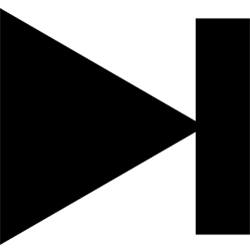
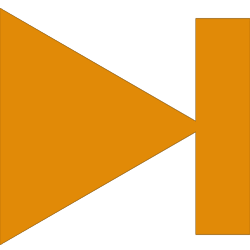
Changed to black and orange theme, styled slider to match theme and also leave path behind

diff --git a/Octoplayer/Octoplayer Frontend/MainWindow.xaml b/Octoplayer/Octoplayer Frontend/MainWindow.xaml
@@ -5,17 +5,17 @@
         xmlns:mc="http://schemas.openxmlformats.org/markup-compatibility/2006"
         xmlns:local="clr-namespace:Octoplayer_Frontend" 
         mc:Ignorable="d"
-        Title="MainWindow" Height="1080" Width="1920" FontSize="14">
+        Title="MainWindow" Height="1080" Width="1920" FontSize="14" Background="Black" >
     <Window.Resources>
         <Image x:Key="Play" Source="assets/play-icon.png" Width="50"/>
         <Image x:Key="Pause" Source="assets/pause-icon.png" Width="50"/>
-        <Label x:Key="TrackInfo"/>
-        <Label x:Key="DiscInfo"/>
-        <Label x:Key="Year"/>
-        <Label x:Key="Rating"/>
-        <Label x:Key="Genres"/>
-        <Label x:Key="BPM"/>
-        <Label x:Key="Key"/>
+        <Label x:Key="TrackInfo" Foreground="#E18A07"/>
+        <Label x:Key="DiscInfo" Foreground="#E18A07"/>
+        <Label x:Key="Year" Foreground="#E18A07"/>
+        <Label x:Key="Rating" Foreground="#E18A07"/>
+        <Label x:Key="Genres" Foreground="#E18A07"/>
+        <Label x:Key="BPM" Foreground="#E18A07"/>
+        <Label x:Key="Key" Foreground="#E18A07"/>
         <Style x:Key="ExpanderHeaderFocusVisual">
             <Setter Property="Control.Template">
                 <Setter.Value>
@@ -38,7 +38,7 @@
                                     <RowDefinition Height="20"/>
                                 </Grid.RowDefinitions>
                                 <ContentPresenter HorizontalAlignment="Center" RecognizesAccessKey="True" SnapsToDevicePixels="True" VerticalAlignment="Center"/>
-                                <Path x:Name="arrow" Grid.Row="1" Data="M 4,6 L 10,14 L 16,6" HorizontalAlignment="Center" StrokeThickness="2" Stroke="#FF333333" VerticalAlignment="Center"/>
+                                <Path x:Name="arrow" Grid.Row="1" Data="M 4,6 L 10,14 L 16,6" HorizontalAlignment="Center" StrokeThickness="2" Stroke="#553300" VerticalAlignment="Center"/>
                             </Grid>
                         </Border>
                         <ControlTemplate.Triggers>
@@ -75,8 +75,77 @@
                 </Setter.Value>
             </Setter>
         </Style>
+
+        <Style x:Key="SliderRepeatButton" TargetType="RepeatButton">
+            <Setter Property="SnapsToDevicePixels" Value="true" />
+            <Setter Property="OverridesDefaultStyle" Value="true" />
+            <Setter Property="IsTabStop" Value="false" />
+            <Setter Property="Focusable" Value="false" />
+            <Setter Property="Template">
+                <Setter.Value>
+                    <ControlTemplate TargetType="RepeatButton">
+                        <Border BorderThickness="1" BorderBrush="#2F2F2F" Background="#553300" Height="5"/>
+                    </ControlTemplate>
+                </Setter.Value>
+            </Setter>
+        </Style>
+        <Style x:Key="SliderRepeatButton1" TargetType="RepeatButton">
+            <Setter Property="SnapsToDevicePixels" Value="true" />
+            <Setter Property="OverridesDefaultStyle" Value="true" />
+            <Setter Property="Template">
+                <Setter.Value>
+                    <ControlTemplate TargetType="RepeatButton">
+                        <Border SnapsToDevicePixels="True" BorderThickness="1" BorderBrush="#2F2F2F" Background="#E18A07" Height="5"/>
+                    </ControlTemplate>
+                </Setter.Value>
+            </Setter>
+        </Style>
+
+        <Style x:Key="SliderThumb" TargetType="Thumb">
+            <Setter Property="SnapsToDevicePixels" Value="true" />
+            <Setter Property="OverridesDefaultStyle" Value="true" />
+            <Setter Property="Template">
+                <Setter.Value>
+                    <ControlTemplate TargetType="Thumb">
+                        <Ellipse Height="20" Width="20" Fill="#E18A07" Stroke="#2F2F2F" StrokeThickness="1"></Ellipse>
+                    </ControlTemplate>
+                </Setter.Value>
+            </Setter>
+        </Style>
+        <ControlTemplate x:Key="Slider"  TargetType="Slider">
+            <Grid>
+                <Grid.RowDefinitions>
+                    <RowDefinition Height="Auto" />
+                    <RowDefinition Height="Auto" MinHeight="{TemplateBinding MinHeight}" />
+                    <RowDefinition Height="Auto" />
+                </Grid.RowDefinitions>
+                <Track Grid.Row="1" x:Name="PART_Track"   >
+                    <Track.DecreaseRepeatButton>
+                        <RepeatButton Style="{StaticResource SliderRepeatButton1}"  Command="Slider.DecreaseLarge" />
+                    </Track.DecreaseRepeatButton>
+                    <Track.Thumb>
+                        <Thumb Style="{StaticResource SliderThumb}"  />
+                    </Track.Thumb>
+                    <Track.IncreaseRepeatButton>
+                        <RepeatButton Style="{StaticResource SliderRepeatButton}" Command="Slider.IncreaseLarge" />
+                    </Track.IncreaseRepeatButton>
+                </Track>
+            </Grid>
+        </ControlTemplate>
+        <Style x:Key="TrackSlider" TargetType="Slider">
+            <Setter Property="Focusable" Value="False"/>
+            <Setter Property="SnapsToDevicePixels" Value="true" />
+            <Setter Property="OverridesDefaultStyle" Value="true" />
+            <Style.Triggers>
+                <Trigger Property="Orientation" Value="Horizontal">
+                    <Setter Property="MinHeight" Value="21" />
+                    <Setter Property="MinWidth" Value="104" />
+                    <Setter Property="Template" Value="{StaticResource Slider}" />
+                </Trigger>
+            </Style.Triggers>
+        </Style>
     </Window.Resources>
-    <Grid Margin="10">
+    <Grid Margin="10" >
         <Grid.RowDefinitions>
             <RowDefinition Height="auto"/>
             <RowDefinition/>
@@ -87,7 +156,7 @@
                 <ColumnDefinition Width="auto"/>
                 <ColumnDefinition/>
             </Grid.ColumnDefinitions>
-            <Button x:Name="BtnSelectFolder" Content="Select Library Folder" Padding="5, 0, 5, 0" HorizontalAlignment="Center" VerticalAlignment="Center" Click="BtnSelectFolder_Click"/>
+            <Button x:Name="BtnSelectFolder" Content="Select Library Folder" Padding="5, 0, 5, 0" HorizontalAlignment="Center" VerticalAlignment="Center" Click="BtnSelectFolder_Click" Background="Black" Foreground="#E18A07" BorderBrush="#E18A07"/>
             <Label x:Name="LblFilesLoaded" Grid.Column="1" VerticalAlignment="Center"/>
         </Grid>
         <Grid Grid.Row="1" Margin="0, 10, 0, 10">
@@ -101,7 +170,7 @@
                     <RowDefinition/>
                 </Grid.RowDefinitions>
                 <Image x:Name="ImgAlbumArt" VerticalAlignment="Top"/>
-                <Expander Style="{DynamicResource TrackDataExpander}" x:Name="ExpTrackInfo" Grid.Row="1" VerticalAlignment="Top" HorizontalAlignment="Center" ExpandDirection="Down">
+                <Expander Style="{DynamicResource TrackDataExpander}" x:Name="ExpTrackInfo" Grid.Row="1" VerticalAlignment="Top" HorizontalAlignment="Center" ExpandDirection="Down" Margin="0, 10, 0, 0">
                     <Expander.Header>
                         <Grid>
                             <Grid.RowDefinitions>
@@ -109,9 +178,9 @@
                                 <RowDefinition Height="0.2*"/>
                                 <RowDefinition Height="0.3*"/>
                             </Grid.RowDefinitions>
-                            <Label x:Name="LblTrackTitle" HorizontalContentAlignment="Center" VerticalContentAlignment="Center" Padding="0" FontSize="20" />
-                            <Label x:Name="LblArtists" Grid.Row="1" HorizontalContentAlignment="Center" VerticalContentAlignment="Center" Padding="0" />
-                            <Label x:Name="LblAlbum" Grid.Row="2" HorizontalContentAlignment="Center" VerticalContentAlignment="Top" Padding="0" />
+                            <Label x:Name="LblTrackTitle" HorizontalContentAlignment="Center" VerticalContentAlignment="Center" Padding="0" FontSize="20" Foreground="#E18A07"/>
+                            <Label x:Name="LblArtists" Grid.Row="1" HorizontalContentAlignment="Center" VerticalContentAlignment="Center" Padding="0" Foreground="#E18A07"/>
+                            <Label x:Name="LblAlbum" Grid.Row="2" HorizontalContentAlignment="Center" VerticalContentAlignment="Top" Padding="0" Foreground="#E18A07"/>
                         </Grid>
                     </Expander.Header>
                     <Grid>
@@ -129,9 +198,9 @@
                                 <ColumnDefinition Width="auto"/>
                                 <ColumnDefinition Width="auto"/>
                             </Grid.ColumnDefinitions>
-                            <Label Content="Track:" HorizontalAlignment="Right" VerticalAlignment="Center" FontWeight="Bold"/>
+                            <Label Content="Track:" HorizontalAlignment="Right" VerticalAlignment="Center" FontWeight="Bold" Foreground="#E18A07"/>
                             <Label Content="{DynamicResource TrackInfo}" Grid.Column="1"/>
-                            <Label Content="Disc:" Grid.Column="3" HorizontalAlignment="Right" VerticalAlignment="Center" FontWeight="Bold"/>
+                            <Label Content="Disc:" Grid.Column="3" HorizontalAlignment="Right" VerticalAlignment="Center" FontWeight="Bold" Foreground="#E18A07"/>
                             <Label Content="{DynamicResource DiscInfo}" Grid.Column="4"/>
                         </Grid>
                         <Grid Grid.Row="1">
@@ -142,9 +211,9 @@
                                 <ColumnDefinition Width="auto"/>
                                 <ColumnDefinition Width="auto"/>
                             </Grid.ColumnDefinitions>
-                            <Label Content="Year:" HorizontalAlignment="Right" VerticalAlignment="Center" FontWeight="Bold"/>
+                            <Label Content="Year:" HorizontalAlignment="Right" VerticalAlignment="Center" FontWeight="Bold" Foreground="#E18A07"/>
                             <Label Content="{DynamicResource Year}" Grid.Column="1"/>
-                            <Label Content="Rating:" Grid.Column="3" HorizontalAlignment="Right" VerticalAlignment="Center" FontWeight="Bold" />
+                            <Label Content="Rating:" Grid.Column="3" HorizontalAlignment="Right" VerticalAlignment="Center" FontWeight="Bold" Foreground="#E18A07"/>
                             <Label Content="{DynamicResource Rating}" Grid.Column="4"/>
                         </Grid>
                         <Grid Grid.Row="2">
@@ -152,7 +221,7 @@
                                 <ColumnDefinition Width="auto"/>
                                 <ColumnDefinition/>
                             </Grid.ColumnDefinitions>
-                            <Label Content="Genre(s):" HorizontalAlignment="Right" VerticalAlignment="Center" FontWeight="Bold"/>
+                            <Label Content="Genre(s):" HorizontalAlignment="Right" VerticalAlignment="Center" FontWeight="Bold" Foreground="#E18A07"/>
                             <Label Content="{DynamicResource Genres}" Grid.Column="1"/>
                         </Grid>
                         <Grid Grid.Row="3">
@@ -163,16 +232,16 @@
                                 <ColumnDefinition Width="auto"/>
                                 <ColumnDefinition Width="auto"/>
                             </Grid.ColumnDefinitions>
-                            <Label Content="Bpm:" HorizontalAlignment="Right" VerticalAlignment="Center" FontWeight="Bold"/>
+                            <Label Content="Bpm:" HorizontalAlignment="Right" VerticalAlignment="Center" FontWeight="Bold" Foreground="#E18A07"/>
                             <Label Content="{DynamicResource BPM}" Grid.Column="1"/>
-                            <Label Content="Key:" Grid.Column="3" HorizontalAlignment="Right" VerticalAlignment="Center" FontWeight="Bold"/>
+                            <Label Content="Key:" Grid.Column="3" HorizontalAlignment="Right" VerticalAlignment="Center" FontWeight="Bold" Foreground="#E18A07"/>
                             <Label Content="{DynamicResource Key}" Grid.Column="4"/>
                         </Grid>
                     </Grid>
                 </Expander>
             </Grid>
-            <Grid Grid.Column="1">
-                <ListBox x:Name="ListBoxTracks" MouseDoubleClick="ListBoxTracks_Select">
+            <Grid Grid.Column="1" Margin="10, 0, 0, 0">
+                <ListBox x:Name="ListBoxTracks" MouseDoubleClick="ListBoxTracks_Select" Background="Black" BorderThickness="0">
                     <ListBox.ItemTemplate>
                         <DataTemplate>
                             <Grid>
@@ -187,9 +256,9 @@
                                         <RowDefinition Height="auto"/>
                                         <RowDefinition/>
                                     </Grid.RowDefinitions>
-                                    <Label Content="{Binding Title}" FontSize="20" Padding="0"/>
-                                    <Label Content="{Binding ArtistString}"  Grid.Row="1" Padding="0"/>
-                                    <Label Content="{Binding Album}" Grid.Row="2" Padding="0"/>
+                                    <Label Content="{Binding Title}" FontSize="20" Padding="0" Foreground="#E18A07"/>
+                                    <Label Content="{Binding ArtistString}"  Grid.Row="1" Padding="0" Foreground="#E18A07"/>
+                                    <Label Content="{Binding Album}" Grid.Row="2" Padding="0" Foreground="#E18A07"/>
                                 </Grid>
                             </Grid>
                         </DataTemplate>
@@ -225,8 +294,8 @@
                     <RowDefinition/>
                     <RowDefinition/>
                 </Grid.RowDefinitions>
-                <Slider x:Name="Slider" VerticalAlignment="Bottom" Thumb.DragStarted="Slider_DragStarted" Thumb.DragCompleted="Slider_DragCompleted" ValueChanged="Slider_ValueChanged" />
-                <Label x:Name="LabelTrackTime" Grid.Row="1" HorizontalAlignment="Center" VerticalAlignment="Top"/>
+                <Slider Style="{StaticResource TrackSlider}" x:Name="Slider" VerticalAlignment="Bottom" Thumb.DragStarted="Slider_DragStarted" Thumb.DragCompleted="Slider_DragCompleted" ValueChanged="Slider_ValueChanged"  />
+                <Label x:Name="LabelTrackTime" Grid.Row="1" HorizontalAlignment="Center" VerticalAlignment="Top" Foreground="#E18A07"/>
             </Grid>
         </Grid>
     </Grid>

diff --git a/Octoplayer/Octoplayer Frontend/MainWindow.xaml.cs b/Octoplayer/Octoplayer Frontend/MainWindow.xaml.cs
@@ -35,11 +35,10 @@ namespace Octoplayer_Frontend
                 {
                     if (extensions.Contains(Path.GetExtension(file))) library.AddTrack(file);
                 }
-                currentTrack = library.Tracks[0];
                 LblFilesLoaded.Content = $"{library.Tracks.Count} file{(library.Tracks.Count > 1 ? "s" : "")} loaded.";
+                library.sortByTrackTitle();
                 ListBoxTracks.ItemsSource = library.Tracks;
-                LoadTrack();
-
+    
                 GridPlayer.Visibility = Visibility.Visible; 
             }
         }
@@ -70,7 +69,7 @@ namespace Octoplayer_Frontend
 
         private void ListBoxTracks_Select(object sender, RoutedEventArgs e)
         {
-            timer.Stop();
+            if(timer != null) timer.Stop();
             currentTrack = (Track) ListBoxTracks.SelectedItem;
             LoadTrack();
             Play();

diff --git a/Octoplayer/Octoplayer Backend/Library.cs b/Octoplayer/Octoplayer Backend/Library.cs
@@ -1,5 +1,6 @@
 using System;
 using System.Collections.Generic;
+using System.Linq;
 using System.Text;
 
 namespace Octoplayer_Backend
@@ -30,6 +31,11 @@ namespace Octoplayer_Backend
                 if (track.FilePath == filePath) return track;
             }
             return null;
+        }
+
+        public void sortByTrackTitle()
+        {
+            Tracks = Tracks.OrderBy(t => t.Title).ToList();
         }
     }
 }
